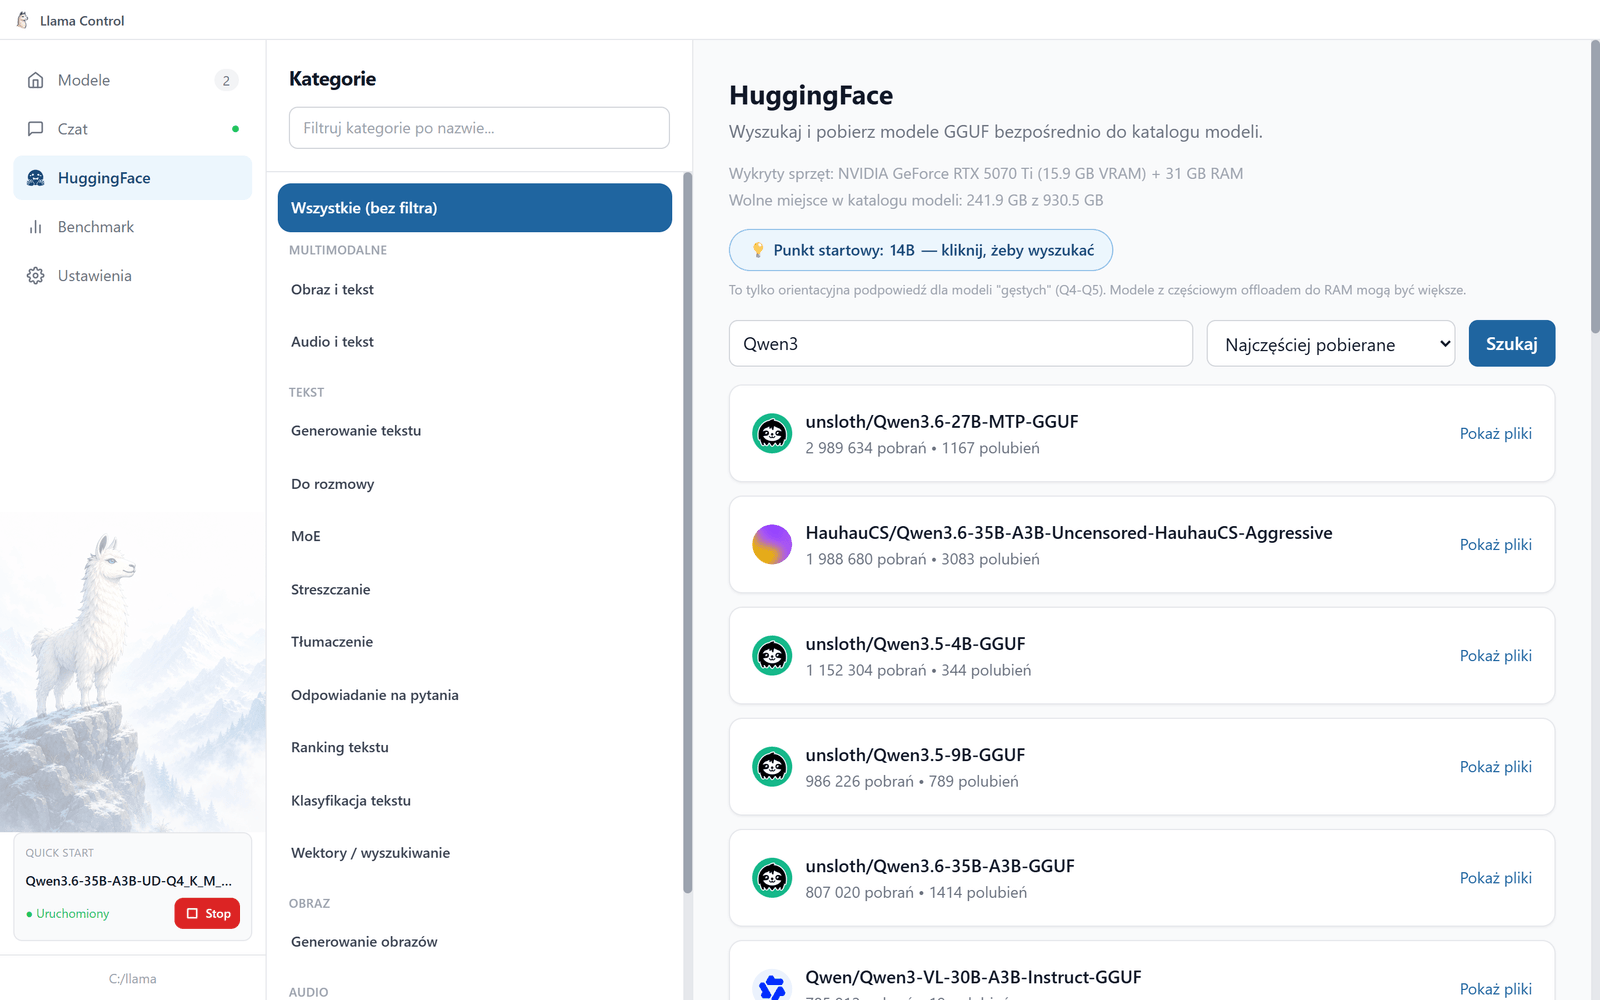
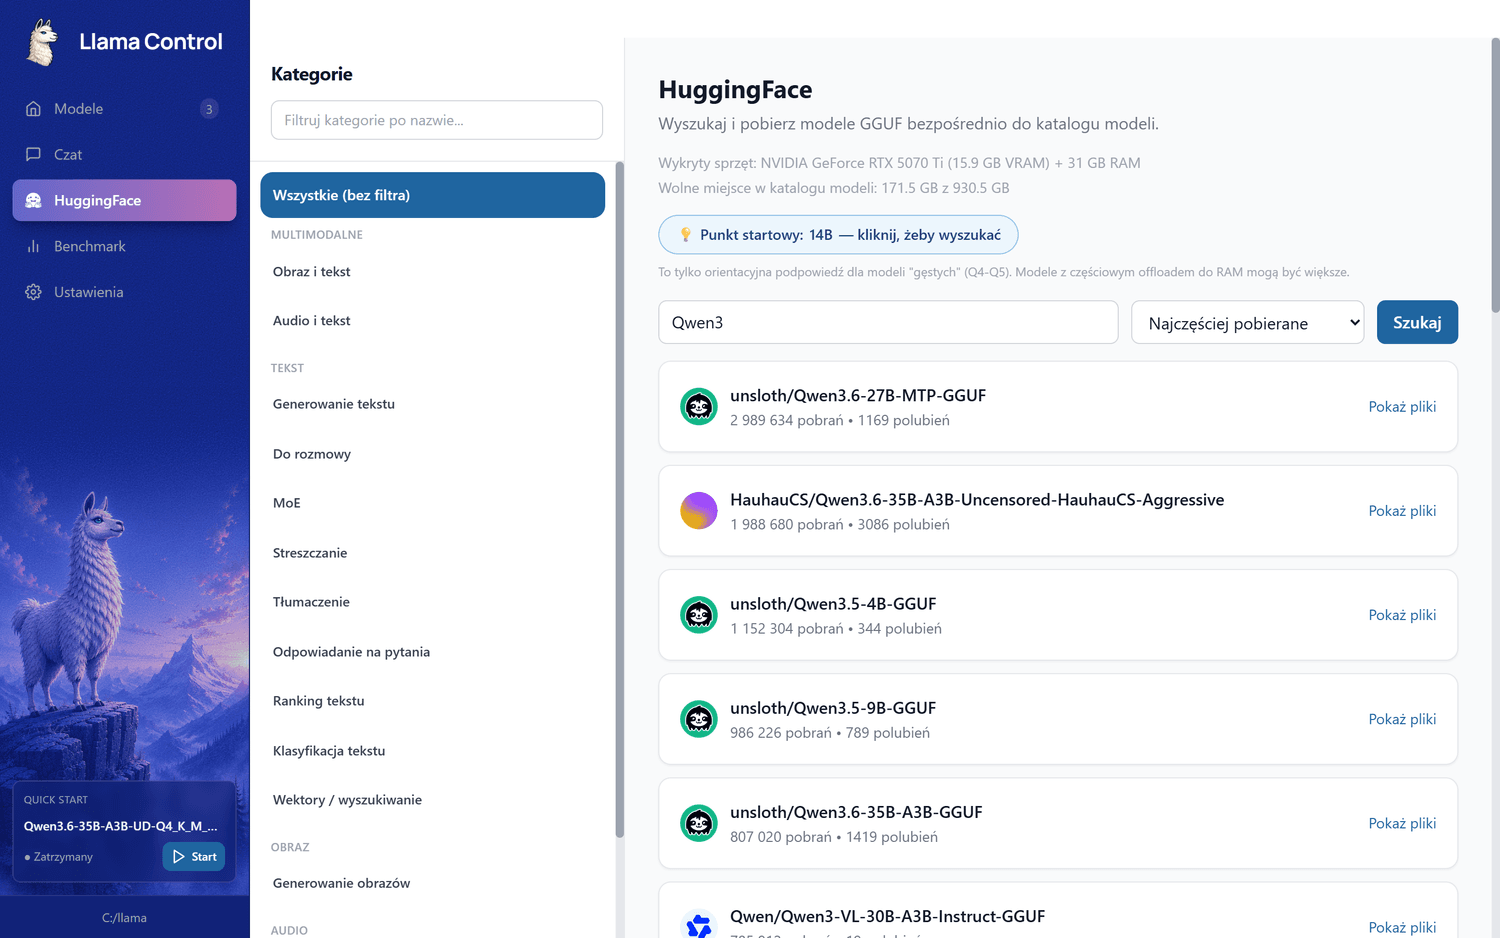
Refresh screenshots for the redesigned interface
The screenshots still showed the old light sidebar. Recaptured against 0.1.52 in
both interface languages: dark sidebar with the artwork and wordmark, vendor
logos in the model list, and the model detail pane showing a full flag set
rather than an empty one.

Kept as palette PNGs -- the navy gradient pushed straight-through PNGs to ~680
KB each, and reducing the palette brings all four back under 200 KB without
softening the text.

diff --git a/README.md b/README.md
@@ -31,7 +31,7 @@ AI models live locally on your disk as files. To make a model actually "come ali
 
 Llama Control is a friendly **wrapper** around that engine:
 
-- **Keeps track of your models.** Shows a list, their size, when they were downloaded, and lets you tag them as favorites or add notes.
+- **Keeps track of your models.** Shows a list, their size, when they were downloaded, and lets you tag them as favorites or add notes. Models from the well-known families — Qwen, Llama, Mistral, Gemma, DeepSeek, Nemotron — are recognised by their filename and shown with their logo.
 - **Installs the llama.cpp engine for you** if you don't already have it, picking the right build for your graphics card.
 - **Starts and stops a model with one click.** No typing anything into a console.
 - **Lets you download new models** straight from HuggingFace (think of it as a "store" for AI models) and tells you right away whether a given model will fit in your GPU's memory.
@@ -95,7 +95,7 @@ Modele AI trzymane są lokalnie na Twoim dysku jako pliki. Żeby taki model "oż
 
 Llama Control to wygodna **nakładka** na ten silnik:
 
-- **Pilnuje Twoich modeli.** Pokazuje listę, ile ważą, kiedy je pobrano, pozwala je oznaczać jako ulubione i opisywać.
+- **Pilnuje Twoich modeli.** Pokazuje listę, ile ważą, kiedy je pobrano, pozwala je oznaczać jako ulubione i opisywać. Modele ze znanych rodzin — Qwen, Llama, Mistral, Gemma, DeepSeek, Nemotron — rozpoznaje po nazwie pliku i pokazuje z ich logo.
 - **Sam zainstaluje silnik llama.cpp**, jeśli go jeszcze nie masz. Dobiera odpowiednią wersję pod Twoją kartę graficzną.
 - **Uruchamia i zatrzymuje model jednym kliknięciem.** Bez wpisywania niczego w konsoli.
 - **Pozwala pobierać nowe modele** prosto z serwisu HuggingFace (to taki "sklep" z modelami AI) i od razu mówi, czy dany model zmieści się w pamięci Twojej karty graficznej.
